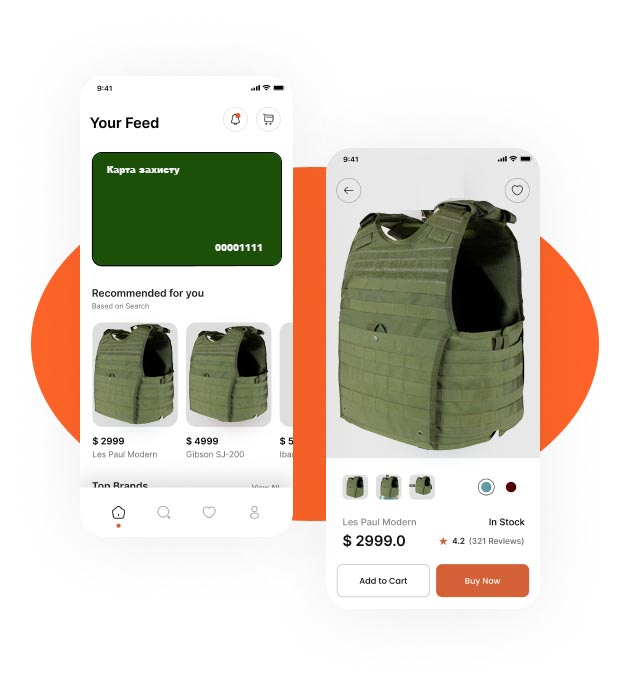
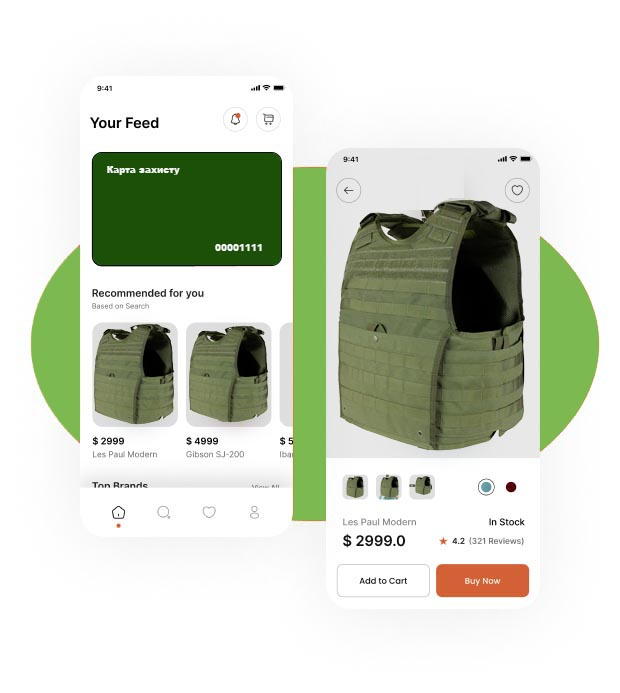
upd files

Changed region(s): [[0.4597, 0.2424, 0.5516, 0.7576], [0.8581, 0.3333, 0.9806, 0.6667], [0.0306, 0.3636, 0.1532, 0.6364]]

diff --git a/css/main.css b/css/main.css
@@ -27,7 +27,7 @@ body {
 	line-height: 1;
 	font-family: Poppins;
 	color: #666666;
-	/*background-image: linear-gradient(rgba(219, 219, 221, 0.7), rgba(219, 219, 221, 0.7)),url(/img/armor/camo_fon.jpeg);*/
+	background-image: linear-gradient(rgba(219, 219, 221, 0.7), rgba(219, 219, 221, 0.7)),url(/img/armor/camo_fon.jpeg);*/
 }
 a {
 	text-decoration: none;
@@ -55,7 +55,8 @@ li {
 	line-height: 1.2;
 }
 .title span{
-	color: #FF6428;
+	color: #0e6922;
+	/*color: #cff2d0;*/
 }
 @media (max-width: 767.98px){
 	.title {
@@ -113,7 +114,7 @@ li {
     display: block;
     height: 2px;
     width: 100%;
-    background-color: orangered;
+    background-color: #0e6922;
 }
 .menu__list {
 	display: flex;
@@ -195,7 +196,7 @@ li {
 }
 
 .main__title span {
-	color: #FF6428;
+	color: #0e6922;
 }
 
 .main__title:not(:last-child) {
@@ -222,7 +223,7 @@ li {
 .actions-main__button {
 	text-align: center;
 	padding: 18.5px 48px;
-	background-color: #FF6428;
+	background-color: #0e6922;
 	border-radius: 40px;
 	color: #fff;
 	font-weight: 600;
@@ -230,7 +231,7 @@ li {
 	transition: all 0.3s ease 0s;
 }
 .actions-main__button:hover{
-	background-color: #ba4619;
+	background-color: #084f18;
 }
 
 .actions-main__button:not(:last-child) {
@@ -429,7 +430,7 @@ li {
 	padding-top: 90px;
 	padding-bottom: 110px;
 }
-.categories__container {}
+
 .categories__title {
 	margin-bottom: 80px;
 }
@@ -440,7 +441,7 @@ li {
 	row-gap: 35px;
 }
 
-.categories__item {}
+
 
 .item-category {
 	position: relative;
@@ -526,7 +527,7 @@ li {
 	padding-top:110px;
 	padding-bottom: 180px;
 }
-.brands__container {}
+
 .brands__title {
 	margin-bottom: 75px;
 }
@@ -540,7 +541,7 @@ li {
 	column-gap: 20px;
 	row-gap: 80px;
 }
-.brands__item {}
+
 .brands__item img{
 	max-width: 100%;
 }
@@ -652,19 +653,15 @@ li {
 	padding-top: 240px;
 	padding-bottom:240px;
 }
-.reviews__container {}
+
 
 .reviews__title {
 	margin-bottom: 100px;
 }
 
-.reviews__swiper {}
 
-.swiper-reviews {}
-.swiper-reviews__wrapper {}
-.swiper-reviews__slide {
-	
-}
+
+
 .slide-swiper-reviews {
 	display: flex;
 }
@@ -687,7 +684,7 @@ li {
 	height: 257px;
 	top: 50px;left: -80px;
 	transform: rotate(-10deg);
-	background-color: #FF6428;
+	background-color: #0e6922;
 	border-radius: 40px 0px 400px 400px;
 }
 .slide-swiper-reviews__image img{
@@ -746,7 +743,7 @@ li {
 	transition: all 0.3s ease 0s;
 }
 .swiper-reviews__pagination .swiper-pagination-bullet-active{
-	background: #FF6428;
+	background: #0e6922;
 	flex: 0 0 24px;
 }
 @media (max-width: 1230px) {
@@ -802,7 +799,7 @@ li {
 		top: 50px;
 		left: -80px;
 		transform: rotate(-10deg);
-		background-color: #FF6428;
+		background-color: #0e6922;
 		border-radius: 40px 0px 400px 400px;
 	}
 	.slide-swiper-reviews__text {
@@ -834,13 +831,13 @@ li {
 	margin-bottom: 60px;
 }
 
-.favorite__apps {}
+
 
 .apps-favorite {
 	display: flex;
 	gap: 25px;
 }
-.apps-favorite__item {}
+
 .apps-favorite__item img {
 	max-width: 100%;
 }
@@ -874,7 +871,7 @@ li {
 /* ----------------------------------- */
 
 .footer {
-	background: #EEEEEE;
+	/*background: #EEEEEE;*/
 	padding-top: 80px;
 	padding-bottom: 40px;
 }
@@ -888,9 +885,7 @@ color: #121212;
 	display: flex;
 	gap: 50px;
 }
-.body-footer__column {
-	
-}
+
 .body-footer__column_full{
 	flex: 1 1 auto;
 }
@@ -901,10 +896,7 @@ color: #121212;
 	margin-bottom: 28px;
 }
 
-.body-footer__contacts {}
 
-.contacts-footer {}
-.contacts-footer__item {}
 .contacts-footer__item:not(:last-child) {
 	margin-bottom: 20px;
 }
@@ -941,8 +933,7 @@ color: #121212;
 	line-height: 27px;
 	margin-bottom:20px;
 }
-.menu-footer__list {}
-.menu-footer__item {}
+
 .menu-footer__item:not(:last-child) {
 	margin-bottom: 16px;
 }
@@ -953,9 +944,9 @@ color: #121212;
 	text-decoration: underline;
 }
 
-.body-footer__social {}
 
-.social-footer {}
+
+
 .social-footer__title {
 	text-transform: uppercase;
 	color: #121212;
@@ -969,7 +960,7 @@ color: #121212;
 	gap: 30px;
 	align-items: center;
 }
-.social-footer__item {}
+
 
 .footer__copy {
 	padding-top: 80px;

diff --git a/index.html b/index.html
@@ -14,7 +14,7 @@
     <header class="header">
         <div class="header__container">
             <a href="./index.html" class="header__logo">
-            <!--<img src="./img/shield_logo.svg" class="shield" width="30" height="30" alt="" ><span class="ammo">ARMOR</span></a>-->
+        <!--<img src="./img/shield_logo.svg" class="shield" width="123" height="30" alt="" ><span class="ammo">ARMOR</span></a>-->
             <img src="./img/logo.svg" alt="logo"></a>
             <nav class="header__menu menu">
                 <ul class="menu__list">
